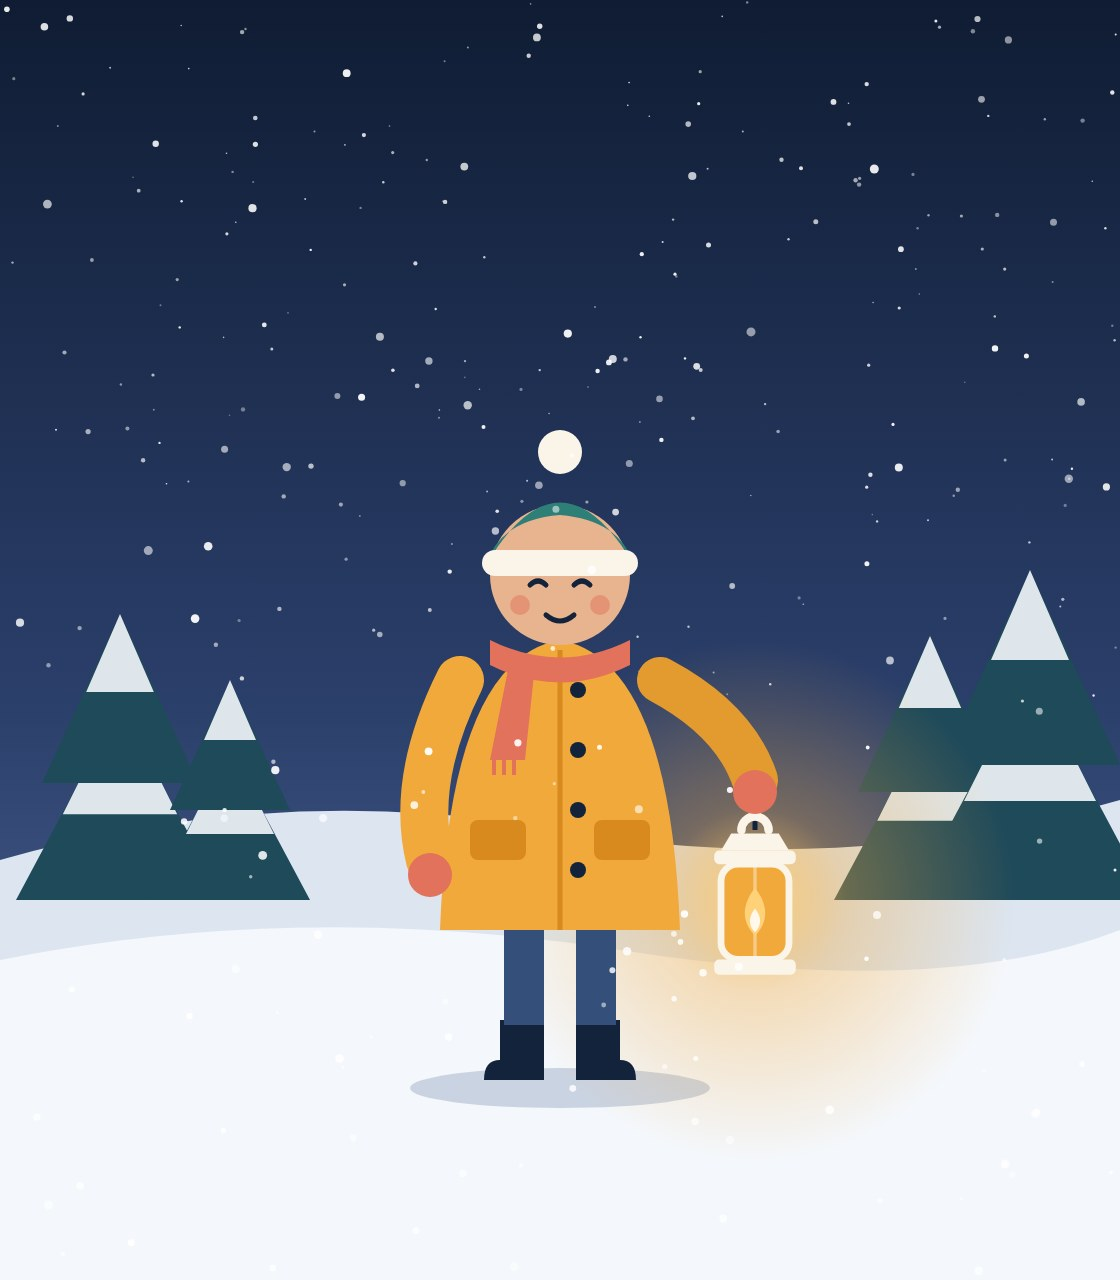
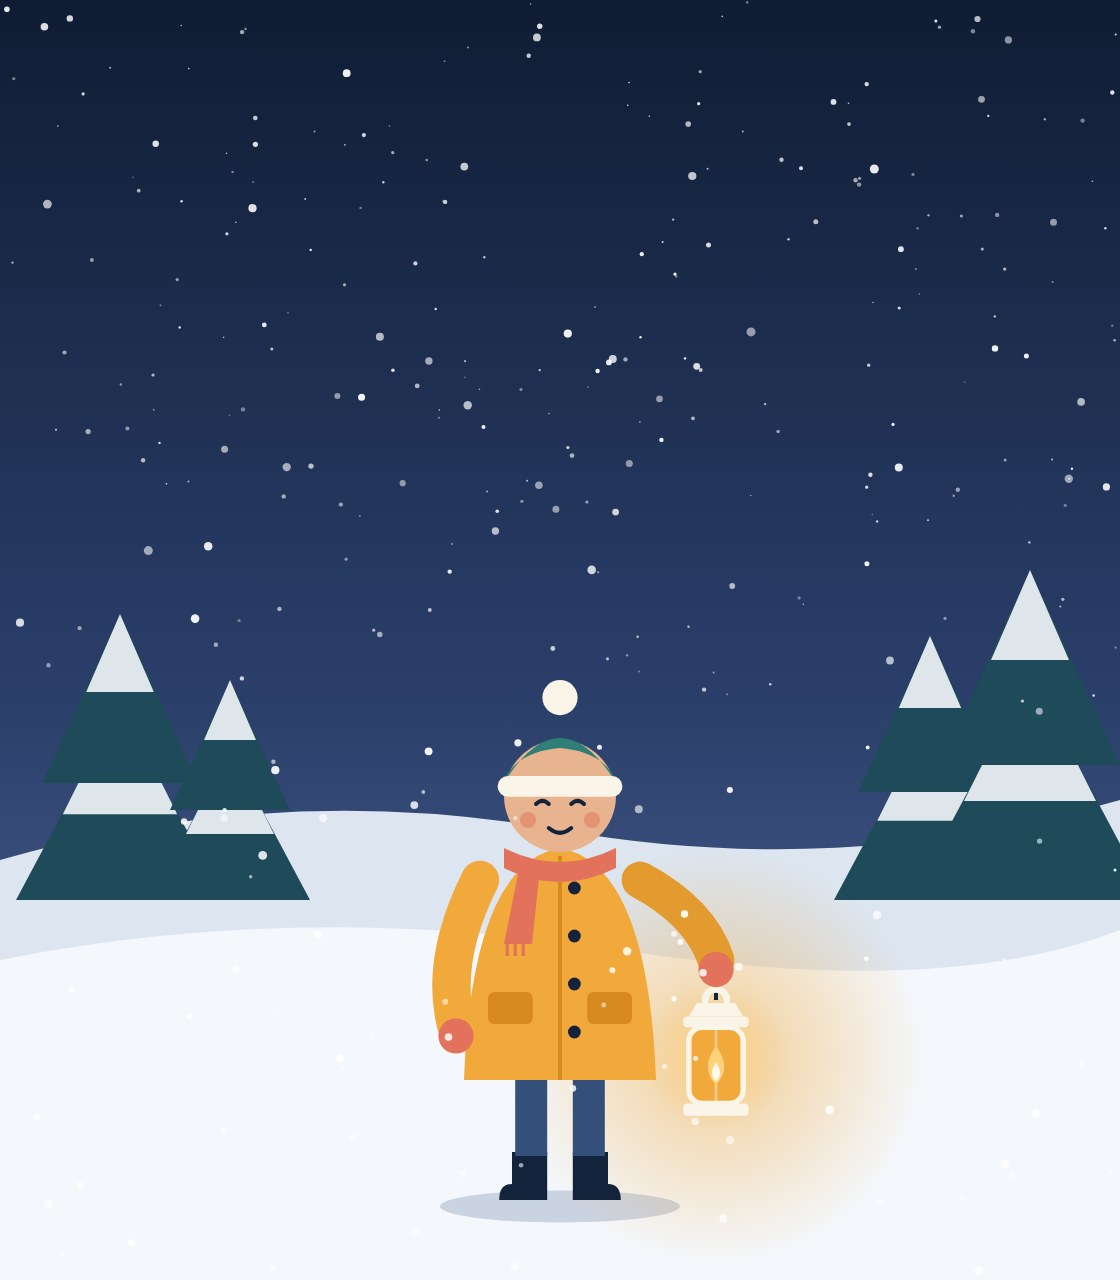
Lower the child in the Image right artwork so CHAMP's text overlay clears the face
Claude-Session: https://claude.ai/code/session_019RTr9YciX3GmnFFFWRKpzV

Changed region(s): [[0.3438, 0.3438, 0.875, 0.9688]]

diff --git a/demo-campaign-images/generate.py b/demo-campaign-images/generate.py
@@ -253,6 +253,8 @@ def image_right():
     for tx, ts in [(120, 1.3), (230, 1.0), (930, 1.2), (1030, 1.5)]:
         body += f'<g transform="translate({tx},900) scale({ts})"><path d="M0 -220 L60 -90 L32 -90 L80 0 L-80 0 L-32 -90 L-60 -90Z" fill="#1F4A5A"/><path d="M0 -220 L26 -160 L-26 -160Z M-32 -90 L32 -90 L44 -66 L-44 -66Z" fill="{SNOW}" opacity=".9"/></g>'
     cx, fy = 560, 1080
+    # figure sits low and slightly smaller so CHAMP's text overlay (top-left) clears the face
+    body += f'<g transform="translate({cx},{fy+120}) scale(.8) translate({-cx},{-fy})">'
     body += f'<ellipse cx="{cx}" cy="{fy+8}" rx="150" ry="20" fill="#9FB0C8" opacity=".5"/>'
     body += f'<circle cx="{cx+195}" cy="{fy-180}" r="260" fill="url(#bigglow)"/>'
     # boots
@@ -285,6 +287,7 @@ def image_right():
     body += f'<path d="M{cx-30} {fy-495} q8 -8 16 0 M{cx+14} {fy-495} q8 -8 16 0" stroke="{NAVY}" stroke-width="5" fill="none" stroke-linecap="round"/>'
     body += f'<path d="M{cx-14} {fy-465} q14 12 28 0" stroke="{NAVY}" stroke-width="5" fill="none" stroke-linecap="round"/>'
     body += f'<circle cx="{cx-40}" cy="{fy-475}" r="10" fill="{CORAL}" opacity=".5"/><circle cx="{cx+40}" cy="{fy-475}" r="10" fill="{CORAL}" opacity=".5"/>'
+    body += '</g>'
     body += snow(w, h, 160, 33)
     return svg(w, h, defs, body)
 
